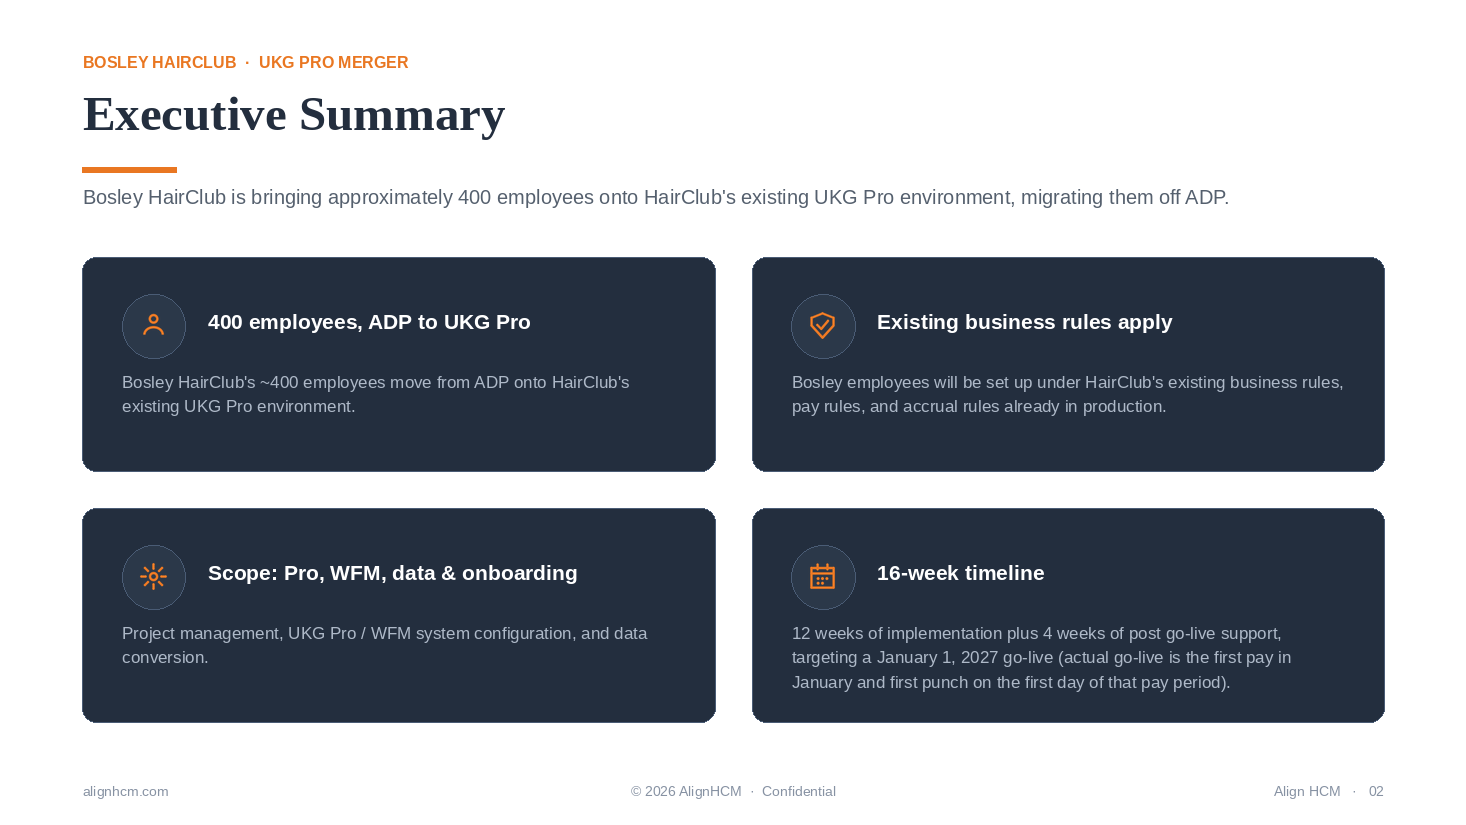
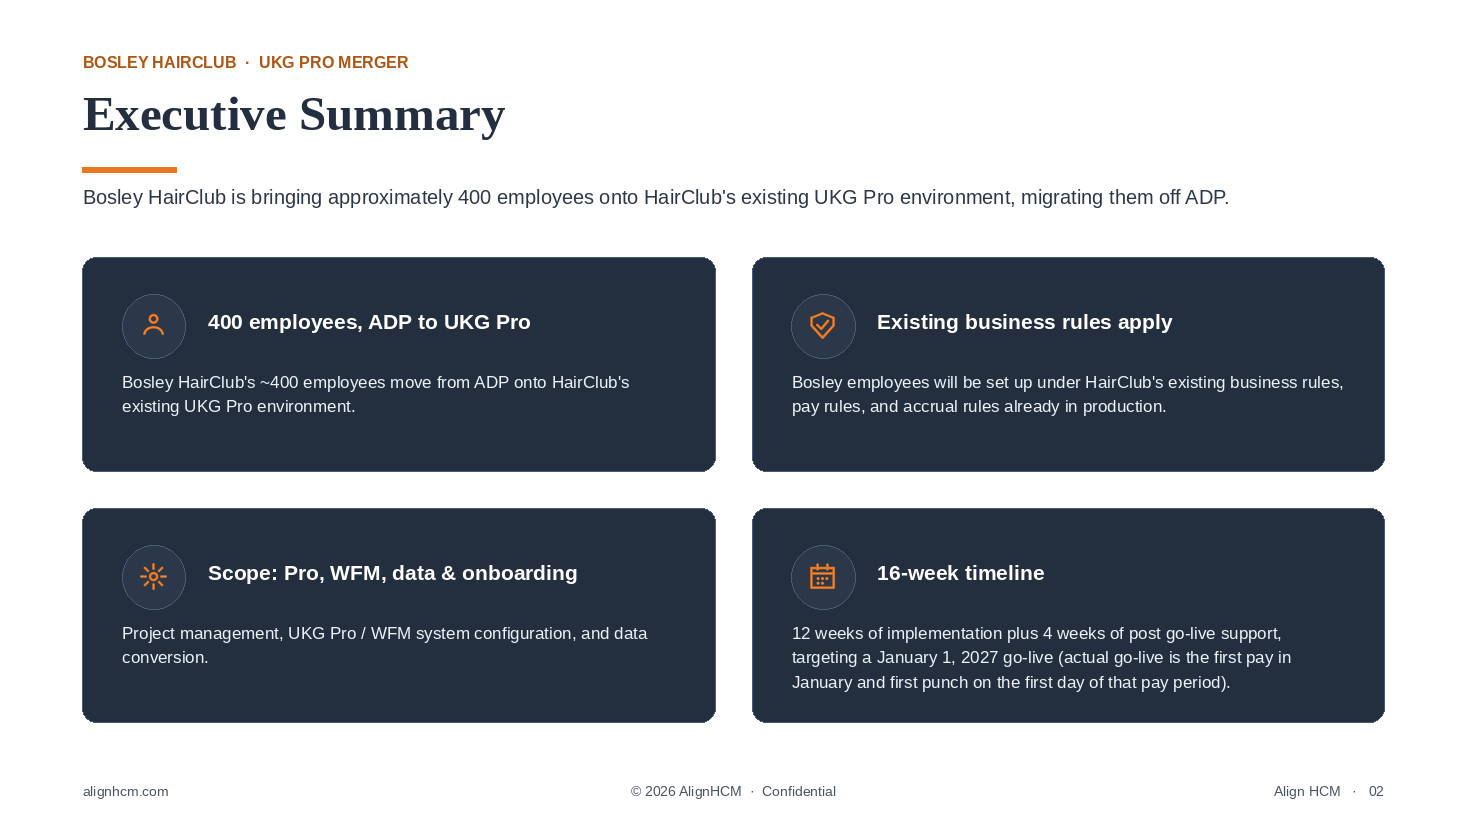
Brighten all body copy and split brand orange for light backgrounds
The source decks' #8792A3 / #AEB9C8 / #55606E were carrying running copy, where
they read as washed-out gray. Body text moves to a dedicated set - #EDF2F8 on
navy (12:1, reads white), #C7D2DF for labels and footers on navy, #2B3849 on
white (11:1), #4A5563 for footers and captions on white. The original tokens
stay, but for fills and rules only.

Adds audit_contrast.py, which walks every text run and resolves what is actually
behind it - the card, panel or slide background it sits on in z-order, or the
cell fill for table text - then checks WCAG contrast against the threshold for
that run's size.

It caught something the eye had not: brand orange #E97722 is fine on navy (5:1)
but only 2.95:1 on white, and it was being used for small type in the eyebrows,
the go-live marker, the Weeks column and the engagement scale. Those now use
same-hue darkenings - #B05512 at 5.1:1, and #94480F at 6.6:1 for the top of the
engagement scale - while every fill, rule and icon keeps #E97722. #B05512 rather
than a lighter #BA5A12 because the zebra row tint costs about 0.3:1 and the
lighter value failed there.

The engagement scale now runs navy -> orange -> deep orange with every level
above AA, instead of a light gray "Low" that receded off the slide.

All 139 text runs pass AA. Validator passes and no text overflows.

Claude-Session: https://claude.ai/code/session_01WvUF1JzKx1k1ooZkJowfQo

diff --git a/clients/align-hcm/deliverables/2026-08-12-bosley-hairclub-ukg-pro-merger-proposal/build/build_deck.py b/clients/align-hcm/deliverables/2026-08-12-bosley-hairclub-ukg-pro-merger-proposal/build/build_deck.py
@@ -14,6 +14,8 @@ import copy
 from brand import (
     ORANGE, ORANGE_DEEP, NAVY, NAVY_DEEP, NAVY_ELEV, SLATE, SLATE_LT, BORDER,
     BORDER_BRIGHT, BORDER_SOFT, CARD_DARK_LINE, CARD_NAVY_LINE, ICON_CIRCLE,
+    TEXT_ON_DARK, MUTED_ON_DARK, TEXT_ON_LIGHT, MUTED_ON_LIGHT,
+    ORANGE_TEXT, ORANGE_TEXT_DEEP,
     INK, INK_2, WHITE, CARD_BG, RAMP, FONT_BODY, FONT_HEAD,
     SLIDE_W, SLIDE_H, MARGIN, CONTENT_W, BODY_TOP, FOOTER_Y,
     rect, ellipse, textbox, write, anchor_middle, header, footer, blank, bg, picture,
@@ -136,19 +138,19 @@ def slide_title(prs):
           {"size": 50, "bold": True, "color": WHITE, "font": FONT_HEAD})
 
     _, tf = textbox(s, 0.90, 4.42, 7.6, 0.42)
-    write(tf, [{"text": "UKG Pro Merger"}], {"size": 22, "color": SLATE_LT})
+    write(tf, [{"text": "UKG Pro Merger"}], {"size": 22, "color": TEXT_ON_DARK})
 
     rect(s, 0.90, 5.12, 0.85, 0.045, fill=ORANGE)
 
     _, tf = textbox(s, 0.90, 5.42, 7.6, 0.32)
-    write(tf, [{"text": "August 2026"}], {"size": 13, "bold": True, "color": SLATE})
+    write(tf, [{"text": "August 2026"}], {"size": 13, "bold": True, "color": MUTED_ON_DARK})
 
     # Client mark: the supplied logo is white type, so it sits straight on the
     # dark panel — no plate needed, and it mirrors the Align lockup opposite.
     panel_x, panel_w = 8.90, SLIDE_W - 8.90
     _, tf = textbox(s, panel_x, 3.02, panel_w, 0.26)
     write(tf, [{"text": "Prepared for"}],
-          {"size": 9.5, "color": SLATE, "align": "c", "caps": True, "spacing": 1.6})
+          {"size": 9.5, "color": MUTED_ON_DARK, "align": "c", "caps": True, "spacing": 1.6})
 
     logo_w = 2.90
     logo_h = logo_w / 2.907                      # measured from the extracted PNG
@@ -159,9 +161,9 @@ def slide_title(prs):
     rect(s, panel_x + (panel_w - 0.60) / 2, 3.46 + logo_h + 0.34, 0.60, 0.035, fill=ORANGE)
 
     _, tf = textbox(s, 0.90, FOOTER_Y, 6.0, 0.24)
-    write(tf, [{"text": "© 2026 AlignHCM  ·  Confidential"}], {"size": 9, "color": SLATE})
+    write(tf, [{"text": "© 2026 AlignHCM  ·  Confidential"}], {"size": 9, "color": MUTED_ON_DARK})
     _, tf = textbox(s, SLIDE_W - MARGIN - 3.0, FOOTER_Y, 3.0, 0.24)
-    write(tf, [{"text": "Align HCM   ·   01"}], {"size": 9, "color": SLATE, "align": "r"})
+    write(tf, [{"text": "Align HCM   ·   01"}], {"size": 9, "color": MUTED_ON_DARK, "align": "r"})
     return s
 
 
@@ -199,7 +201,7 @@ def slide_exec_summary(prs):
         _, tf = textbox(s, cx + 1.14, cy + 0.47, cw - 1.50, 0.46)
         write(tf, [{"text": title}], {"size": 13.5, "bold": True, "color": WHITE})
         _, tf = textbox(s, cx + 0.36, cy + 1.04, cw - 0.72, ch - 1.26)
-        write(tf, [{"text": body}], {"size": 11, "color": SLATE_LT, "line_spacing": 1.22})
+        write(tf, [{"text": body}], {"size": 11, "color": TEXT_ON_DARK, "line_spacing": 1.22})
 
     footer(s, 2)
     return s
@@ -235,7 +237,7 @@ def slide_timeline(prs):
               {"size": 10.5, "bold": True, "color": WHITE, "align": "c",
                "line_spacing": 1.02})
         _, tf = textbox(s, x + 0.08, top + 0.84, w - 0.16, 0.24)
-        write(tf, [{"text": weeks}], {"size": 9.5, "color": SLATE_LT, "align": "c"})
+        write(tf, [{"text": weeks}], {"size": 9.5, "color": TEXT_ON_DARK, "align": "c"})
         x += w + gap
 
     # go-live marker sits on the seam before Post Go-Live Support, and stops at
@@ -244,16 +246,16 @@ def slide_timeline(prs):
     rect(s, seam - 0.011, top - 0.34, 0.022, ch + 0.44, fill=ORANGE, name="GoLiveMarker")
     _, tf = textbox(s, seam - 1.10, top - 0.86, 2.20, 0.44)
     write(tf, [{"text": "GO-LIVE"}, {"text": "Week 12"}],
-          {"size": 9.5, "bold": True, "color": ORANGE, "align": "c", "line_spacing": 1.05})
+          {"size": 9.5, "bold": True, "color": ORANGE_TEXT, "align": "c", "line_spacing": 1.05})
 
     cap_y = top + ch + 0.34
     impl_w = xs[5][0] - gap - MARGIN - 0.45
     _, tf = textbox(s, MARGIN, cap_y, impl_w, 0.26)
     write(tf, [{"text": "Weeks 1-12  ·  Implementation"}],
-          {"size": 10, "italic": True, "color": INK_2, "align": "c"})
+          {"size": 10, "italic": True, "color": TEXT_ON_LIGHT, "align": "c"})
     _, tf = textbox(s, xs[5][0] - 0.34, cap_y, xs[5][1] + 0.34, 0.26)
     write(tf, [{"text": "Weeks 13-16  ·  Post Go-Live"}],
-          {"size": 10, "italic": True, "color": INK_2, "align": "c"})
+          {"size": 10, "italic": True, "color": TEXT_ON_LIGHT, "align": "c"})
 
     note_y = 5.34
     dark_card(s, MARGIN, note_y, CONTENT_W, 0.96, name="TimelineNote")
@@ -261,7 +263,7 @@ def slide_timeline(prs):
     _, tf = textbox(s, MARGIN + 1.06, note_y + 0.26, CONTENT_W - 1.40, 0.50)
     write(tf, [{"text": "Target go-live: January 1, 2027, with true go-live defined as "
                         "the start of the first supported pay period."}],
-          {"size": 11.5, "color": SLATE_LT, "line_spacing": 1.2})
+          {"size": 11.5, "color": TEXT_ON_DARK, "line_spacing": 1.2})
 
     footer(s, 3)
     return s
@@ -302,8 +304,8 @@ def slide_milestones(prs):
     for i, (phase, weeks, ms) in enumerate(rows, start=1):
         zebra = WHITE if i % 2 else CARD_BG
         _cell(tbl.cell(i, 0), phase, size=10.5, bold=True, color=NAVY, fill=zebra)
-        _cell(tbl.cell(i, 1), weeks, size=10, bold=True, color=ORANGE, fill=zebra, align="c")
-        _cell(tbl.cell(i, 2), ms, size=10, color=INK_2, fill=zebra)
+        _cell(tbl.cell(i, 1), weeks, size=10, bold=True, color=ORANGE_TEXT, fill=zebra, align="c")
+        _cell(tbl.cell(i, 2), ms, size=10, color=TEXT_ON_LIGHT, fill=zebra)
         last = i == len(rows)
         for j in range(ncols):
             _set_border(tbl.cell(i, j), {
@@ -338,7 +340,7 @@ def slide_investment(prs):
     _, tf = textbox(s, MARGIN + 0.55, top + 1.80, lw - 1.10, 0.46)
     write(tf, [{"text": "Includes project management, UKG Pro & WFM system "
                         "configuration, and employee data conversion."}],
-          {"size": 10, "color": SLATE_LT, "align": "c", "line_spacing": 1.18})
+          {"size": 10, "color": TEXT_ON_DARK, "align": "c", "line_spacing": 1.18})
 
     rx = MARGIN + lw + gap
     dark_card(s, rx, top, rw, ch, on_navy=True, name="EarlyGoLiveCard")
@@ -350,7 +352,7 @@ def slide_investment(prs):
     write(tf, [{"text": "If Bosley HairClub goes live sooner than 1/1/2027, an additional "
                         "$12,900 applies for the extra data conversion work required to "
                         "bring over opening balances."}],
-          {"size": 11, "color": SLATE_LT, "line_spacing": 1.24})
+          {"size": 11, "color": TEXT_ON_DARK, "line_spacing": 1.24})
 
     by = top + ch + gap
     dark_card(s, MARGIN, by, CONTENT_W, 1.30, on_navy=True, name="ScopeCard")
@@ -363,7 +365,7 @@ def slide_investment(prs):
     write(tf, [{"text": "Pricing reflects Phase 1 only: bringing Bosley HairClub's 400 "
                         "employees onto HairClub's existing UKG Pro environment. Phase 2 "
                         "(Benefits Hub) will be scoped and priced separately."}],
-          {"size": 11, "color": SLATE_LT, "line_spacing": 1.22})
+          {"size": 11, "color": TEXT_ON_DARK, "line_spacing": 1.22})
 
     footer(s, 5, on_dark=True)
     return s
@@ -382,8 +384,8 @@ def slide_engagement(prs):
         ("System Administrator", ["Low", "Medium", "High", "Medium", "Medium"]),
         ("IT / Data Contact",   ["Low", "Low", "High", "Low", "Low"]),
     ]
-    # INK_2 rather than SLATE for "Low": #8792A3 on white is ~2.9:1, below AA
-    level_col = {"Low": INK_2, "Medium": ORANGE, "High": ORANGE_DEEP}
+    # every level must read: navy -> orange -> deep orange, all above AA
+    level_col = {"Low": TEXT_ON_LIGHT, "Medium": ORANGE_TEXT, "High": ORANGE_TEXT_DEEP}
 
     col_w = [3.20] + [1.7267] * 5
     row_h = [0.46] + [0.52] * len(rows)
@@ -421,7 +423,7 @@ def slide_engagement(prs):
                         "business rules, validates converted data, and supports UAT "
                         "sign-off. AlignHCM leads configuration, data conversion, and "
                         "testing coordination."}],
-          {"size": 11, "color": SLATE_LT, "line_spacing": 1.22})
+          {"size": 11, "color": TEXT_ON_DARK, "line_spacing": 1.22})
 
     footer(s, 6)
     return s
@@ -456,17 +458,17 @@ def slide_contact(prs):
             _, tf = textbox(s, 6.30, y - 0.01, 6.0, 0.38)
             write(tf, [{"text": primary}], {"size": 23, "bold": True, "color": WHITE})
             _, tf = textbox(s, 6.30, y + 0.39, 6.0, 0.26)
-            write(tf, [{"text": secondary}], {"size": 12.5, "color": SLATE})
+            write(tf, [{"text": secondary}], {"size": 12.5, "color": MUTED_ON_DARK})
         else:
             _, tf = textbox(s, 6.30, y + 0.14, 6.0, 0.38)
             write(tf, [{"text": primary}], {"size": 20, "color": WHITE})
         y += step
 
     _, tf = textbox(s, 5.35, FOOTER_Y, 4.0, 0.24)
-    write(tf, [{"text": "alignhcm.com"}], {"size": 9, "color": SLATE})
+    write(tf, [{"text": "alignhcm.com"}], {"size": 9, "color": MUTED_ON_DARK})
     _, tf = textbox(s, SLIDE_W - MARGIN - 4.0, FOOTER_Y, 4.0, 0.24)
     write(tf, [{"text": "© 2026 AlignHCM  ·  Confidential   ·   07"}],
-          {"size": 9, "color": SLATE, "align": "r"})
+          {"size": 9, "color": MUTED_ON_DARK, "align": "r"})
     return s
 
 

diff --git a/clients/align-hcm/deliverables/2026-08-12-bosley-hairclub-ukg-pro-merger-proposal/build/audit_contrast.py b/clients/align-hcm/deliverables/2026-08-12-bosley-hairclub-ukg-pro-merger-proposal/build/audit_contrast.py
@@ -1,0 +1,117 @@
+"""Check every text run in a deck against the colour actually behind it.
+
+Backgrounds are resolved by walking the shapes that precede each text box in
+z-order and taking the last solid-filled one whose bounds contain the box —
+which is how the card, panel, and slide background actually stack here. Table
+cells use their own fill. Reports WCAG contrast so "is this readable" is a
+measured answer rather than an impression.
+"""
+
+import sys
+from pptx import Presentation
+from pptx.util import Emu
+
+AA_BODY, AA_LARGE = 4.5, 3.0
+
+
+def lum(rgb):
+    def ch(c):
+        c /= 255.0
+        return c / 12.92 if c <= 0.03928 else ((c + 0.055) / 1.055) ** 2.4
+    r, g, b = rgb
+    return 0.2126 * ch(r) + 0.7152 * ch(g) + 0.0722 * ch(b)
+
+
+def contrast(fg, bg):
+    a, b = lum(fg), lum(bg)
+    hi, lo = max(a, b), min(a, b)
+    return (hi + 0.05) / (lo + 0.05)
+
+
+def as_tuple(rgb):
+    s = str(rgb)
+    return tuple(int(s[i:i + 2], 16) for i in (0, 2, 4))
+
+
+def solid(shape):
+    try:
+        if shape.fill.type == 1:
+            return as_tuple(shape.fill.fore_color.rgb)
+    except Exception:
+        pass
+    return None
+
+
+def box(shape):
+    return (Emu(shape.left).inches, Emu(shape.top).inches,
+            Emu(shape.width).inches, Emu(shape.height).inches)
+
+
+def audit(path):
+    prs = Presentation(path)
+    issues, checked = [], 0
+
+    for n, slide in enumerate(prs.slides, 1):
+        shapes = list(slide.shapes)
+        for idx, shape in enumerate(shapes):
+            if shape.has_table:
+                for i, row in enumerate(shape.table.rows):
+                    for j, cell in enumerate(row.cells):
+                        bg = (255, 255, 255)
+                        try:
+                            if cell.fill.type == 1:
+                                bg = as_tuple(cell.fill.fore_color.rgb)
+                        except Exception:
+                            pass
+                        for p in cell.text_frame.paragraphs:
+                            for r in p.runs:
+                                if not r.text.strip():
+                                    continue
+                                checked += 1
+                                fg = as_tuple(r.font.color.rgb)
+                                size = r.font.size.pt if r.font.size else 12
+                                need = AA_LARGE if (size >= 18 or (size >= 14 and r.font.bold)) else AA_BODY
+                                c = contrast(fg, bg)
+                                if c < need:
+                                    issues.append((n, f"table[{i},{j}]", r.text[:38],
+                                                   round(c, 2), need, size))
+                continue
+
+            if not shape.has_text_frame or not shape.text_frame.text.strip():
+                continue
+
+            x, y, w, h = box(shape)
+            cx, cy = x + w / 2, y + h / 2
+            bg = (255, 255, 255)
+            for under in shapes[:idx]:
+                f = solid(under)
+                if f is None:
+                    continue
+                ux, uy, uw, uh = box(under)
+                if ux <= cx <= ux + uw and uy <= cy <= uy + uh:
+                    bg = f
+
+            for p in shape.text_frame.paragraphs:
+                for r in p.runs:
+                    if not r.text.strip():
+                        continue
+                    checked += 1
+                    fg = as_tuple(r.font.color.rgb)
+                    size = r.font.size.pt if r.font.size else 12
+                    need = AA_LARGE if (size >= 18 or (size >= 14 and r.font.bold)) else AA_BODY
+                    c = contrast(fg, bg)
+                    if c < need:
+                        issues.append((n, shape.name, r.text[:38], round(c, 2), need, size))
+
+    print(f"checked {checked} text runs")
+    if not issues:
+        print("all runs meet WCAG AA for their size")
+        return 0
+    print(f"\n{len(issues)} run(s) below AA:")
+    for n, name, text, c, need, size in issues:
+        print(f"  s{n} {name:22s} {size:>5}pt  {c:>5}:1 (need {need})  {text!r}")
+    return 1
+
+
+if __name__ == "__main__":
+    sys.exit(audit(sys.argv[1]))

diff --git a/clients/align-hcm/deliverables/2026-08-12-bosley-hairclub-ukg-pro-merger-proposal/build/brand.py b/clients/align-hcm/deliverables/2026-08-12-bosley-hairclub-ukg-pro-merger-proposal/build/brand.py
@@ -13,6 +13,12 @@ from pptx.util import Inches, Pt, Emu
 # --- palette (exact, from ppt/slides/*.xml of the source decks) ---------------
 ORANGE      = RGBColor(0xE9, 0x77, 0x22)   # #E97722 primary accent
 ORANGE_DEEP = RGBColor(0xC0, 0x52, 0x1A)   # darkened accent for heat scale
+
+# Brand orange is only 2.95:1 on white, so it fails as small text there while
+# being perfectly fine on navy (5:1). These are same-hue darkenings used ONLY
+# for orange type on light backgrounds — fills, rules and icons stay #E97722.
+ORANGE_TEXT      = RGBColor(0xB0, 0x55, 0x12)  # 5.1:1 on white, 4.8:1 on the zebra tint
+ORANGE_TEXT_DEEP = RGBColor(0x94, 0x48, 0x0F)  # 6.6:1 on white
 NAVY        = RGBColor(0x23, 0x2E, 0x3E)   # #232E3E primary dark
 NAVY_DEEP   = RGBColor(0x1D, 0x27, 0x35)   # #1D2735 deepest
 NAVY_ELEV   = RGBColor(0x2B, 0x38, 0x49)   # #2B3849 raised panel on navy
@@ -23,6 +29,15 @@ INK         = RGBColor(0x33, 0x33, 0x33)   # #333333 body copy
 INK_2       = RGBColor(0x55, 0x60, 0x6E)   # #55606E secondary
 WHITE       = RGBColor(0xFF, 0xFF, 0xFF)
 CARD_BG     = RGBColor(0xF6, 0xF8, 0xFA)   # subtle tint of BORDER for light cards
+
+# --- text -------------------------------------------------------------------
+# SLATE / SLATE_LT / INK_2 came out of the source decks but were being used for
+# running copy, where they read as washed-out gray. Body text now uses these
+# instead; the source tokens stay for fills and rules only.
+TEXT_ON_DARK   = RGBColor(0xED, 0xF2, 0xF8)  # body on navy — 12:1, reads white
+MUTED_ON_DARK  = RGBColor(0xC7, 0xD2, 0xDF)  # labels/footers on navy — 7.8:1
+TEXT_ON_LIGHT  = RGBColor(0x2B, 0x38, 0x49)  # body on white — 11:1
+MUTED_ON_LIGHT = RGBColor(0x4A, 0x55, 0x63)  # footers/captions on white — 7.5:1
 
 # --- edges ------------------------------------------------------------------
 # The original #DCE2E9 hairline all but vanished on screen. Edges are brightened
@@ -167,11 +182,12 @@ def anchor_middle(tf):
 def header(slide, eyebrow, title, subtitle=None, on_dark=False):
     """The standard Align HCM content-slide header block."""
     title_col = WHITE if on_dark else NAVY
-    sub_col = SLATE_LT if on_dark else INK_2
+    sub_col = TEXT_ON_DARK if on_dark else TEXT_ON_LIGHT
 
     _, tf = textbox(slide, MARGIN, EYEBROW_Y, 9.0, 0.30, name="Eyebrow")
-    write(tf, [{"text": eyebrow}], {"size": 10.5, "bold": True, "color": ORANGE,
-                                    "caps": True, "spacing": 1.4})
+    write(tf, [{"text": eyebrow}],
+          {"size": 10.5, "bold": True, "color": ORANGE if on_dark else ORANGE_TEXT,
+           "caps": True, "spacing": 1.4})
 
     _, tf = textbox(slide, MARGIN, TITLE_Y, CONTENT_W, 0.70, name="Title")
     write(tf, [{"text": title}], {"size": 32, "bold": True, "color": title_col,
@@ -186,7 +202,7 @@ def header(slide, eyebrow, title, subtitle=None, on_dark=False):
 
 def footer(slide, page, on_dark=False, total=None):
     """alignhcm.com | Confidential | Align HCM . NN  — the house footer."""
-    col = SLATE if on_dark else SLATE
+    col = MUTED_ON_DARK if on_dark else MUTED_ON_LIGHT
     _, tf = textbox(slide, MARGIN, FOOTER_Y, 3.0, 0.24, name="FooterLeft")
     write(tf, [{"text": "alignhcm.com"}], {"size": 9, "color": col})
 

diff --git a/clients/align-hcm/deliverables/2026-08-12-bosley-hairclub-ukg-pro-merger-proposal/README.md b/clients/align-hcm/deliverables/2026-08-12-bosley-hairclub-ukg-pro-merger-proposal/README.md
@@ -59,6 +59,30 @@ Icons are recoloured, never redrawn — `build/recolor_icons.py` keeps the
 original coverage mask and swaps only the fill, preserving the stroke weights
 and optical sizing of the house set.
 
+## Text colours
+
+The source decks' `#8792A3` / `#AEB9C8` / `#55606E` were being used for running
+copy, where they read as washed-out gray. Body text now uses a dedicated set,
+and those original tokens are kept for fills and rules only:
+
+| Token | Hex | Use | Contrast |
+|---|---|---|---|
+| `TEXT_ON_DARK` | `#EDF2F8` | Body on navy — reads as white | 12:1 |
+| `MUTED_ON_DARK` | `#C7D2DF` | Labels and footers on navy | 7.8:1 |
+| `TEXT_ON_LIGHT` | `#2B3849` | Body on white | 11:1 |
+| `MUTED_ON_LIGHT` | `#4A5563` | Footers and captions on white | 7.5:1 |
+
+Brand orange needed splitting. `#E97722` is fine on navy (5:1) but only **2.95:1
+on white**, so it fails as small type — which it was being used for in the
+eyebrows, the go-live marker, the Weeks column, and the engagement scale. Those
+now use same-hue darkenings, while every fill, rule, and icon stays `#E97722`:
+
+- `ORANGE_TEXT` `#B05512` — 5.1:1 on white, 4.8:1 on the zebra row tint
+- `ORANGE_TEXT_DEEP` `#94480F` — 6.6:1, the top of the engagement scale
+
+The engagement heat scale therefore runs navy → orange → deep orange, with every
+level above AA rather than a light gray "Low" that recedes off the slide.
+
 ## Logos
 
 - **Align HCM** — `assets/align-hcm-logo.png`, extracted byte-for-byte from
@@ -113,7 +137,14 @@ python3 extract_logo.py                                    # client mark -> tran
 python3 recolor_icons.py                                   # orange copies of the house icons
 python3 build_deck.py                                      # writes the .pptx
 python3 render_qa.py ../Align_HCM_*.pptx ../qa             # rasterizes for review
+python3 audit_contrast.py ../Align_HCM_*.pptx              # WCAG check, exits non-zero on a fail
 ```
+
+`audit_contrast.py` walks every text run and resolves what is actually behind it
+— the card, panel, or slide background it sits on in z-order, or the cell fill
+for table text — then reports WCAG contrast against the threshold for that run's
+size. It is what caught the orange-on-white failures above. All 139 runs
+currently pass AA.
 
 `render_qa.py` exists because LibreOffice is only partially installed in the
 build container and cannot open any presentation. It walks the real shape tree
